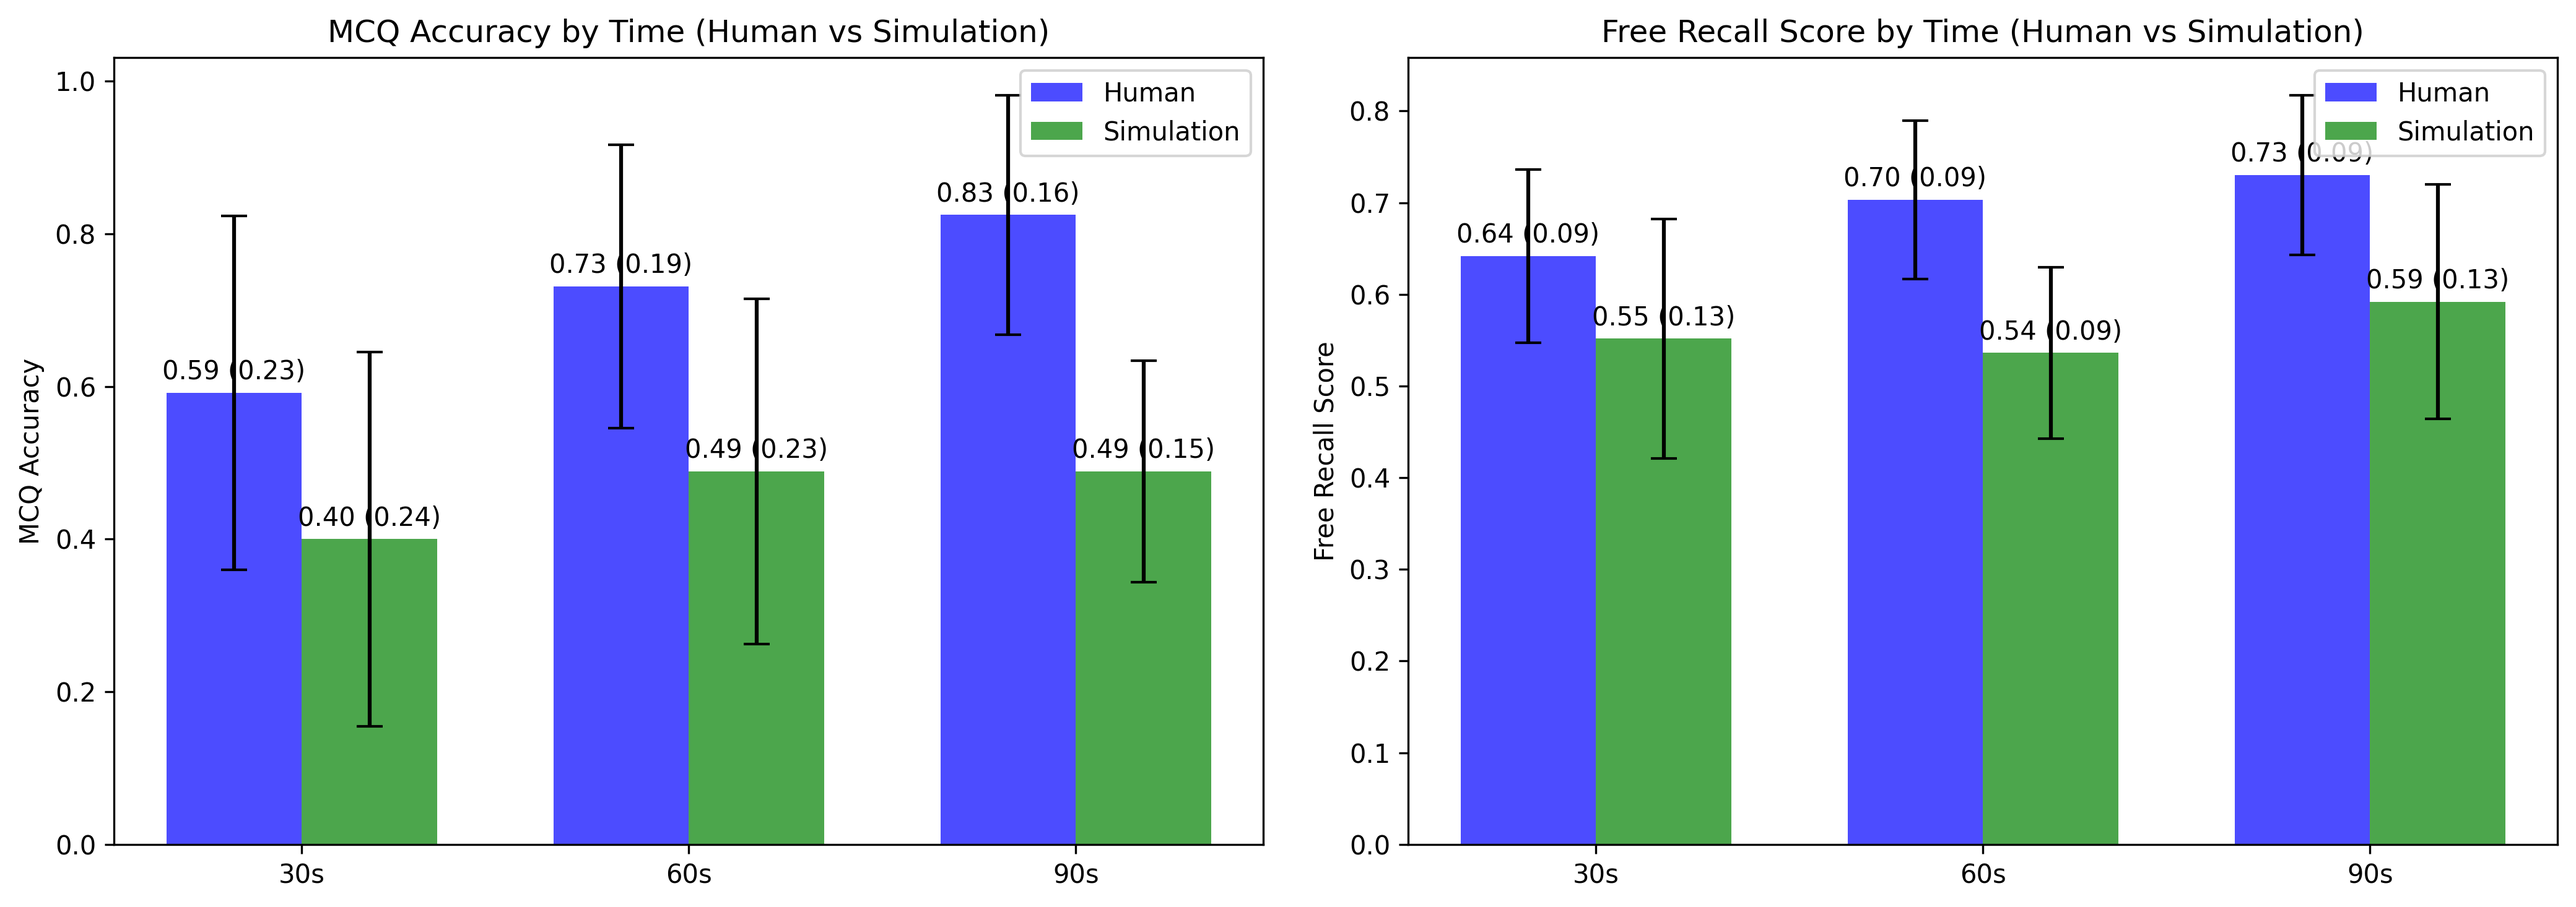
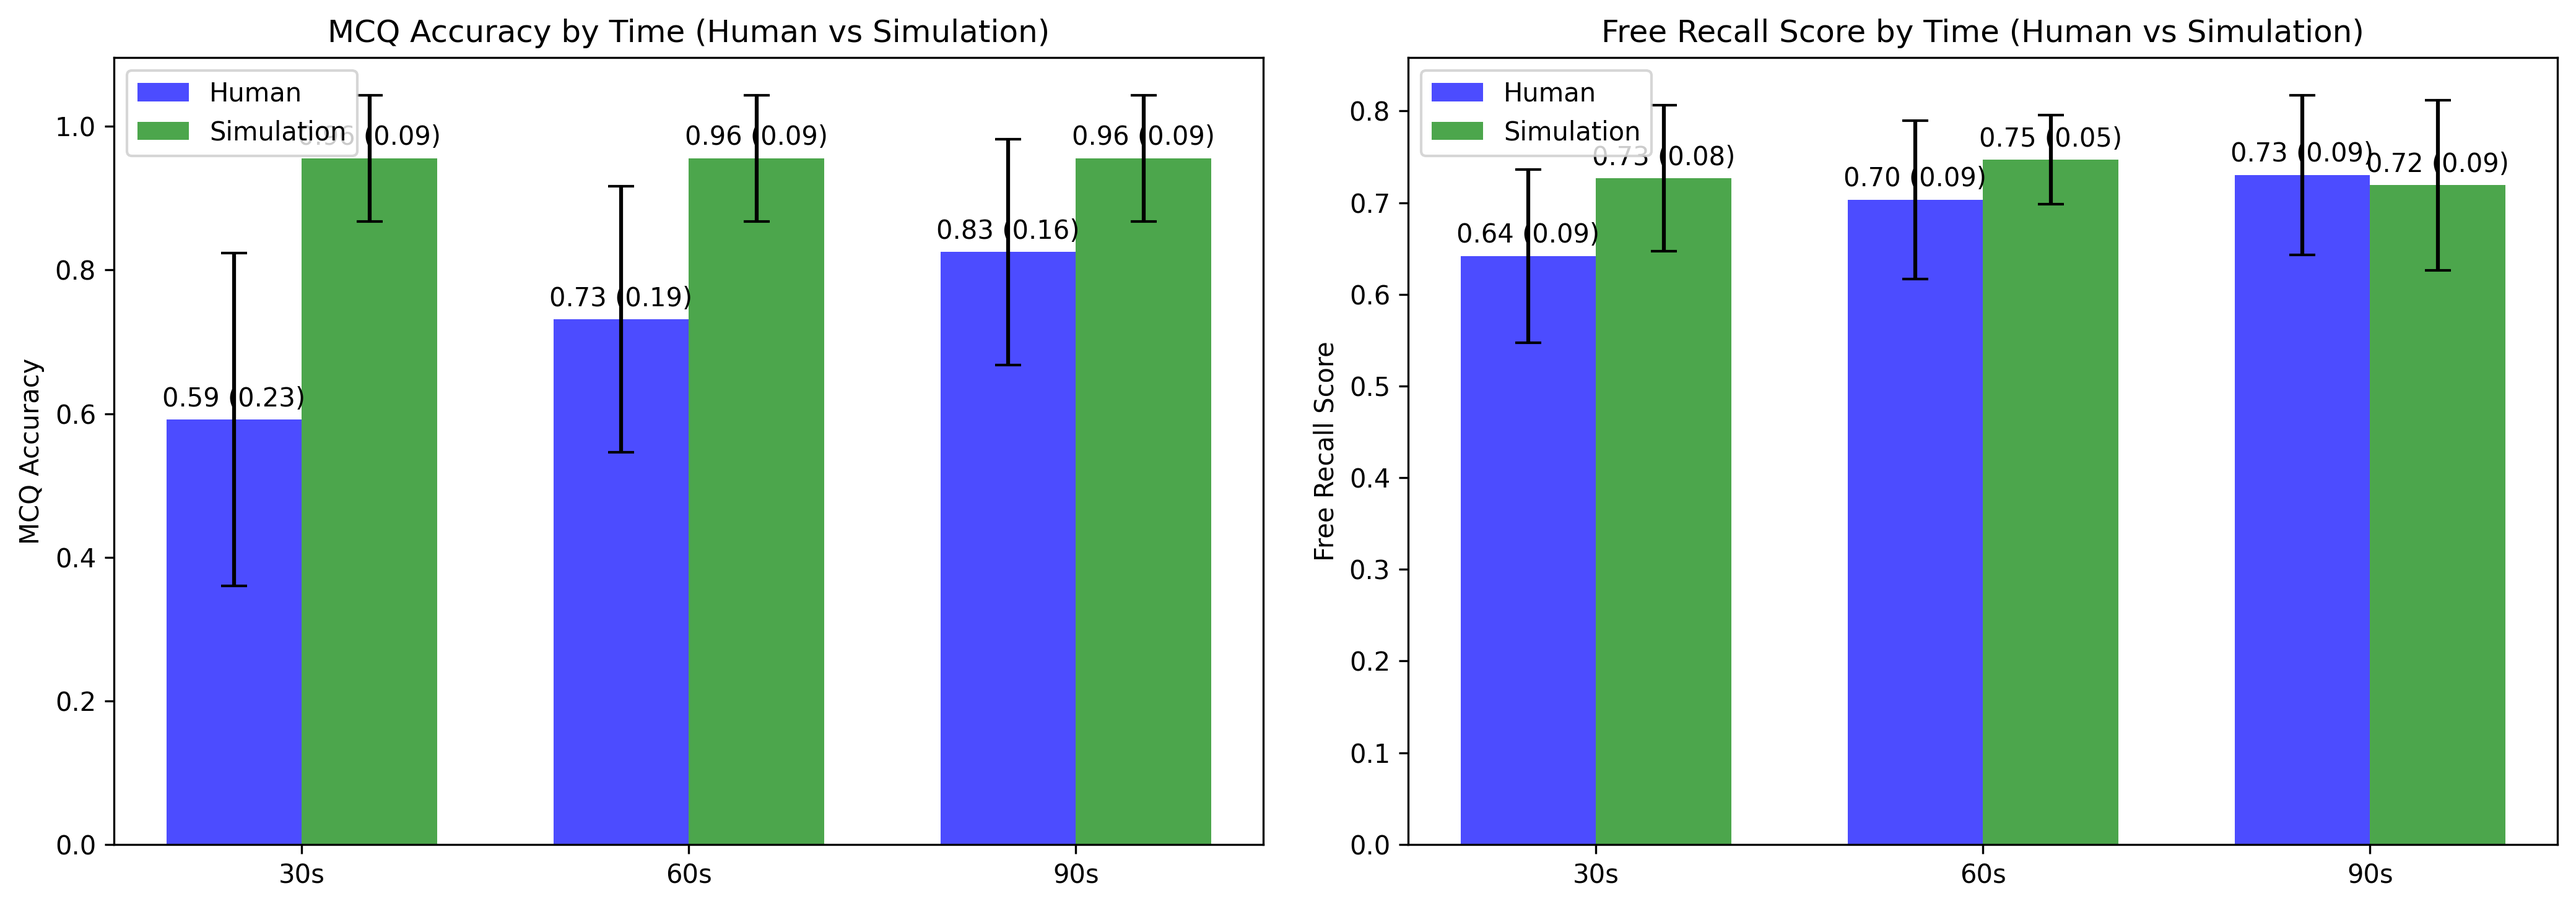
Code and Simulate >> When using the raw read sentences for free recall and mcq answering, mcq performs really good; but free recalls are not approaching perfect, this might be due to the sentence pushing are not correctly assigned to the correct place. Need to modify.

diff --git a/step5/simulators/simulator_v20250604/results/analyze_aggregated_results/offline_text_comprehension_runner/ci_schema_pipeline.py b/step5/simulators/simulator_v20250604/results/analyze_aggregated_results/offline_text_comprehension_runner/ci_schema_pipeline.py
@@ -443,7 +443,9 @@ def process_episode(ep: Dict,
                     p_store: float = 0.35,
                     mode: str = "ci_schema",
                     som_limit: int = 12,
-                    som_policy: str = "replace") -> Tuple[List[CycleOutput], GistBoard]:
+                    som_policy: str = "replace",
+                    parse_mode: str = "llm",
+                    ) -> Tuple[List[CycleOutput], GistBoard]:
 
     if schema is None:
         schema = Schema()
@@ -468,32 +470,44 @@ def process_episode(ep: Dict,
         sent = _clean_join(log["sampled_words_in_sentence"])
         if not sent:
             continue
-
-        # 1) parse micro-props
-        props = parser.parse(sent, sent_id=sent_id)
-
-        # 2) re-read gain
-        strength = apply_visit_gain(visit_counter[sent_id])
-
-        # 3) schema update + 4) macroselection (WM/gist of this cycle)
-        if mode == "none":
-            # --- BYPASS: no schema learning, no macroselection, no CI coherence ---
-            wm_props = props[:]  # keep EVERYTHING in WM/gist for this cycle
-            keep_scores = {p.signature(): 0.0 for p in wm_props}  # default zeros
-            # store all propositions for this sentence (ordered), no scores
-            wm_now = [p.signature() for p in wm_props]
+        
+        if parse_mode == "raw":
+            # No micro-propositions; keep the exact sentence text as the single “item”
+            props: List[Proposition] = []
+            wm_props: List[Proposition] = []
+            keep_scores: Dict[str, float] = {}
+            wm_now = [sent]                       # one item per sentence
+            # Strength still depends on revisits
+            strength = apply_visit_gain(visit_counter[sent_id])
+            # Update SOM directly with the raw sentence
             gist_board.update(sent_id, wm_now, keep_scores)
+        
         else:
-            # --- Original CI+Schema path ---
-            schema.update_from_props(props, strength=strength)
-            wm_props, keep_scores = macroselect_gist(props, schema, buffer_size=wm_buffer)
-            # store the selected WM items with scores
-            gist_board.update(sent_id, wm_now, keep_scores)
-        # schema.update_from_props(props, strength=strength)
-        # wm_props, keep_scores = macroselect_gist(props, schema, buffer_size=wm_buffer)
+            # 1) parse micro-props
+            props = parser.parse(sent, sent_id=sent_id)
 
-        # WM dynamics vs previous cycle
-        wm_now = [p.signature() for p in wm_props]
+            # 2) re-read gain
+            strength = apply_visit_gain(visit_counter[sent_id])
+
+            # 3) schema update + 4) macroselection (WM/gist of this cycle)
+            if mode == "none":
+                # --- BYPASS: no schema learning, no macroselection, no CI coherence ---
+                wm_props = props[:]  # keep EVERYTHING in WM/gist for this cycle
+                keep_scores = {p.signature(): 0.0 for p in wm_props}  # default zeros
+                # store all propositions for this sentence (ordered), no scores
+                wm_now = [p.signature() for p in wm_props]
+                gist_board.update(sent_id, wm_now, keep_scores)
+            else:
+                # --- Original CI+Schema path ---
+                schema.update_from_props(props, strength=strength)
+                wm_props, keep_scores = macroselect_gist(props, schema, buffer_size=wm_buffer)
+                # store the selected WM items with scores
+                gist_board.update(sent_id, wm_now, keep_scores)
+
+            # WM dynamics vs previous cycle
+            wm_now = [p.signature() for p in wm_props]
+        
+        # ------------------ end parsing modes -------------------
         set_prev, set_now = set(prev_wm), set(wm_now)
         wm_retained = sorted(set_prev & set_now)
         wm_added = sorted(list(set_now - set_prev))
@@ -502,7 +516,7 @@ def process_episode(ep: Dict,
         # 5) local CI integration (optional coherence boost)
         # net = build_network(props)
         # integrate(net)
-        if mode == "ci_schema":
+        if mode == "ci_schema" and parse_mode != "raw":
             net = build_network(props)
             integrate(net)
 
@@ -514,13 +528,13 @@ def process_episode(ep: Dict,
             step=log["step"],
             sent_id=sent_id,
             sentence_text=sent,
-            propositions=[p.signature() for p in props],
+            propositions=( [p.signature() for p in props] if parse_mode != "raw" else wm_now ),
             wm_kept=wm_now,
             wm_retained=wm_retained,
             wm_added=wm_added,
             wm_dropped=wm_dropped,
             ltm_updates=ltm_updates,
-            schema_snapshot=dict(sorted(schema.weights.items(), key=lambda x: -x[1])[:32])
+            schema_snapshot=(dict(sorted(schema.weights.items(), key=lambda x: -x[1])[:32]) if parse_mode != "raw" else {})
         ))
 
         # logs
@@ -570,7 +584,8 @@ def run_pipeline(json_path: str,
                  allow_reparse: bool = False,
                  mode: str = "ci_schema",
                  som_limit: int = 12,
-                 som_policy: str = "replace"
+                 som_policy: str = "replace",
+                 parse_mode: str = "llm",
                  ) -> Dict:
     """Run CI+Schema over episodes with rich logging, WM/LTM tracking.
 
@@ -598,7 +613,9 @@ def run_pipeline(json_path: str,
     data_slice = data[start:start + limit_episodes] if limit_episodes is not None else data[start:]
     logger.info(f"Loaded {len(data)} episodes; processing {len(data_slice)} (start={start}).")
 
-    parser = PropositionParser(llm_agent=llm_agent, role=llm_role, use_llm=use_llm, logger=logger, allow_reparse=allow_reparse)
+    # Build parser. Only use LLM when parse_mode == "llm"
+    effective_use_llm = (parse_mode == "llm")
+    parser = PropositionParser(llm_agent=llm_agent, role=llm_role, use_llm=effective_use_llm, logger=logger, allow_reparse=allow_reparse)
 
     results: Dict[str, List[Dict]] = {}
     for idx, ep in enumerate(data_slice, start=1):
@@ -610,7 +627,7 @@ def run_pipeline(json_path: str,
         ltm_store = LTMStore(p_store=p_store)
 
         cycles, gist_board = process_episode(ep, parser, schema=schema, wm_buffer=wm_buffer, logger=logger, episode_tag=tag, log_every=log_every, 
-            ltm_store=ltm_store, p_store=p_store, mode=mode, som_limit=som_limit, som_policy=som_policy,)
+            ltm_store=ltm_store, p_store=p_store, mode=mode, som_limit=som_limit, som_policy=som_policy, parse_mode=parse_mode)
 
         # per-cycle details (backward compatible shape + new fields)
         results[key] = [asdict(c) for c in cycles]

diff --git a/step5/simulators/simulator_v20250604/results/analyze_aggregated_results/offline_text_comprehension_runner/main.py b/step5/simulators/simulator_v20250604/results/analyze_aggregated_results/offline_text_comprehension_runner/main.py
@@ -18,6 +18,7 @@ if __name__ == "__main__":
     ap.add_argument("--verbose", default="INFO", choices=["DEBUG","INFO","WARNING","ERROR"])
     ap.add_argument("--som_limit", type=int, default=20, help="Max propositions per sentence slot in the ordered gist")
     ap.add_argument("--som_policy", default="replace", choices=["replace","merge_topk"], help="How to update a sentence slot on revisits")
+    ap.add_argument("--parse_mode", default="llm", choices=["llm","heuristic","raw"], help="llm=LLM micro-props; heuristic=rule fallback; raw=store original sentences")
     args = ap.parse_args()
 
     # init your agent (uses your Aalto gateway per your file)
@@ -38,6 +39,7 @@ if __name__ == "__main__":
         mode=args.mode,
         som_limit=args.som_limit,      
         som_policy=args.som_policy,   
+        parse_mode=args.parse_mode,
     )
 
     # write outputs to a compact JSON for analysis/plots

diff --git a/step5/simulators/simulator_v20250604/results/analyze_aggregated_results/offline_text_comprehension_runner/README.md b/step5/simulators/simulator_v20250604/results/analyze_aggregated_results/offline_text_comprehension_runner/README.md
@@ -233,6 +233,10 @@ WM=5 [ret 3, +2, -2] | LTM+=5 (top: skip(readers, words), install(stations, new)
       ```bash
       python main.py --episodes 1 --log_every 1 --mode none --som_policy merge_topk --verbose INFO
       ```
+    - CI schema integartion off, and use the raw sentences as propositions (other wise, use LLM to process, choose `--parse_mode llm`). Do this for comparison tets. All 27 trials (3 conditions * 9 stimuli)
+      ```bash
+      python main.py --episodes 27 --log_every 1 --parse_mode raw --mode none --som_policy merge_topk --verbose INFO
+      ```
 
 4) **Inspect results**  
    - Open the generated JSON; check `wm_*` fields and `ltm_updates` for each step.  
